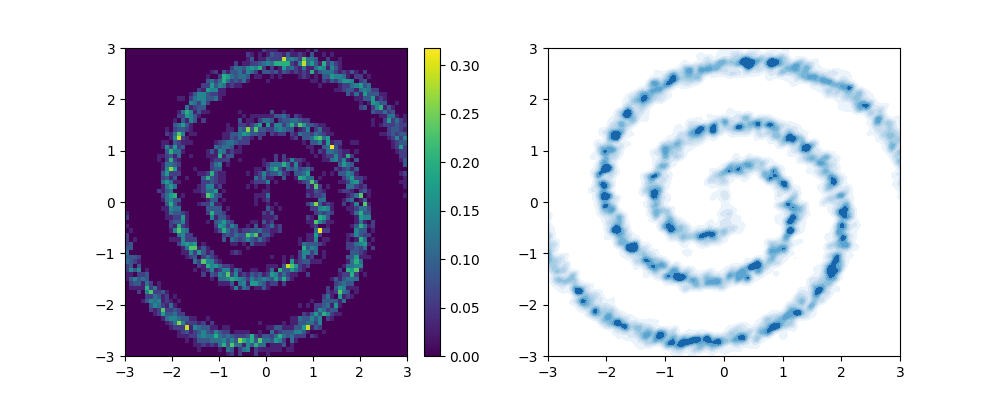
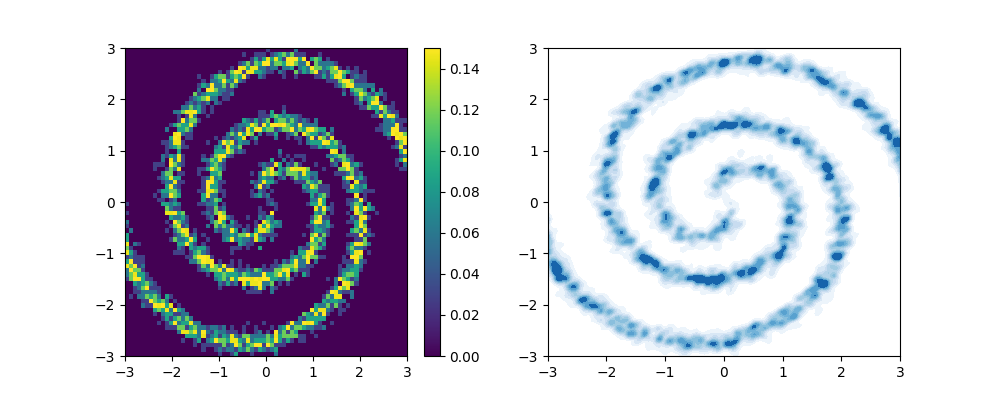
generic commit

diff --git a/scripts/transport/kvae_flow2.py b/scripts/transport/kvae_flow2.py
@@ -68,9 +68,9 @@ class Comp_transport_model:
         self.dtype = torch.float32
         self.plot_steps = False
 
-        n = len(self.submodel_params['Lambda_mean'])
-        eps = .01
-        self.noise_shrink_c = np.exp(np.log(eps)/(n))
+        #n = len(self.submodel_params['Lambda_mean'])
+        #eps = .01
+        #self.noise_shrink_c = np.exp(np.log(eps)/(n))
 
 
         if device:
@@ -106,7 +106,7 @@ class Comp_transport_model:
 
         x_mean = torch.concat([x_mu, y_mean], dim=1)
         z_mean = fit_kernel(X_mean, x_mean).T @ Lambda_mean
-        y_eta = self.noise_shrink_c * shuffle(y_eta)
+        y_eta =  shuffle(y_eta)
 
         y_approx = y_mean + y_var
         z = z_mean + z_var
@@ -260,6 +260,7 @@ class CondTransportKernel(nn.Module):
         y_approx = deepcopy(y_eta)
         if self.params['approx']:
             y_approx = y_mean + y_var
+        y_eta = shuffle(y_eta)
         return_dict = {'y_eta': y_eta, 'y_mean': y_mean + z_mean, 'y_var': y_var + z_var,
                        'y_approx': y_approx + z, 'y': torch.concat([x_mu, z + y_approx], dim = 1)}
 
@@ -361,8 +362,8 @@ def comp_cond_kernel_transport(X_mu, Y_mu, Y_eta, params, n_iter = 1001, n = 50,
                                Y_eta_test = [], X_mu_test = [],Y_mu_test = [], f = .95):
     model_params = {'fit_kernel': [], 'Lambda_mean': [], 'X_mean': [], 'Lambda_var': [], 'X_var': []}
     iters = 0
-    eps = .01
-    noise_shrink_c = np.exp(np.log(eps)/(n))
+    #eps = .01
+    #noise_shrink_c = np.exp(np.log(eps)/(n))
     Y_mean = []
     Y_mean_test = []
     Y_var = 0
@@ -386,8 +387,8 @@ def comp_cond_kernel_transport(X_mu, Y_mu, Y_eta, params, n_iter = 1001, n = 50,
         test_map_dict = model.map(model.X_mu_test, model.Y_eta_test, model.Y_mean_test, model.Y_var_test)
         Y_eta_test, Y_mean_test, Y_var_test = test_map_dict['y_eta'], test_map_dict['y_mean'], test_map_dict['y_var']
 
-        Y_eta *= noise_shrink_c
-        Y_eta_test *= noise_shrink_c
+        #Y_eta *= noise_shrink_c
+        #Y_eta_test *= noise_shrink_c
         iters = model.iters
     return Comp_transport_model(model_params)
 
